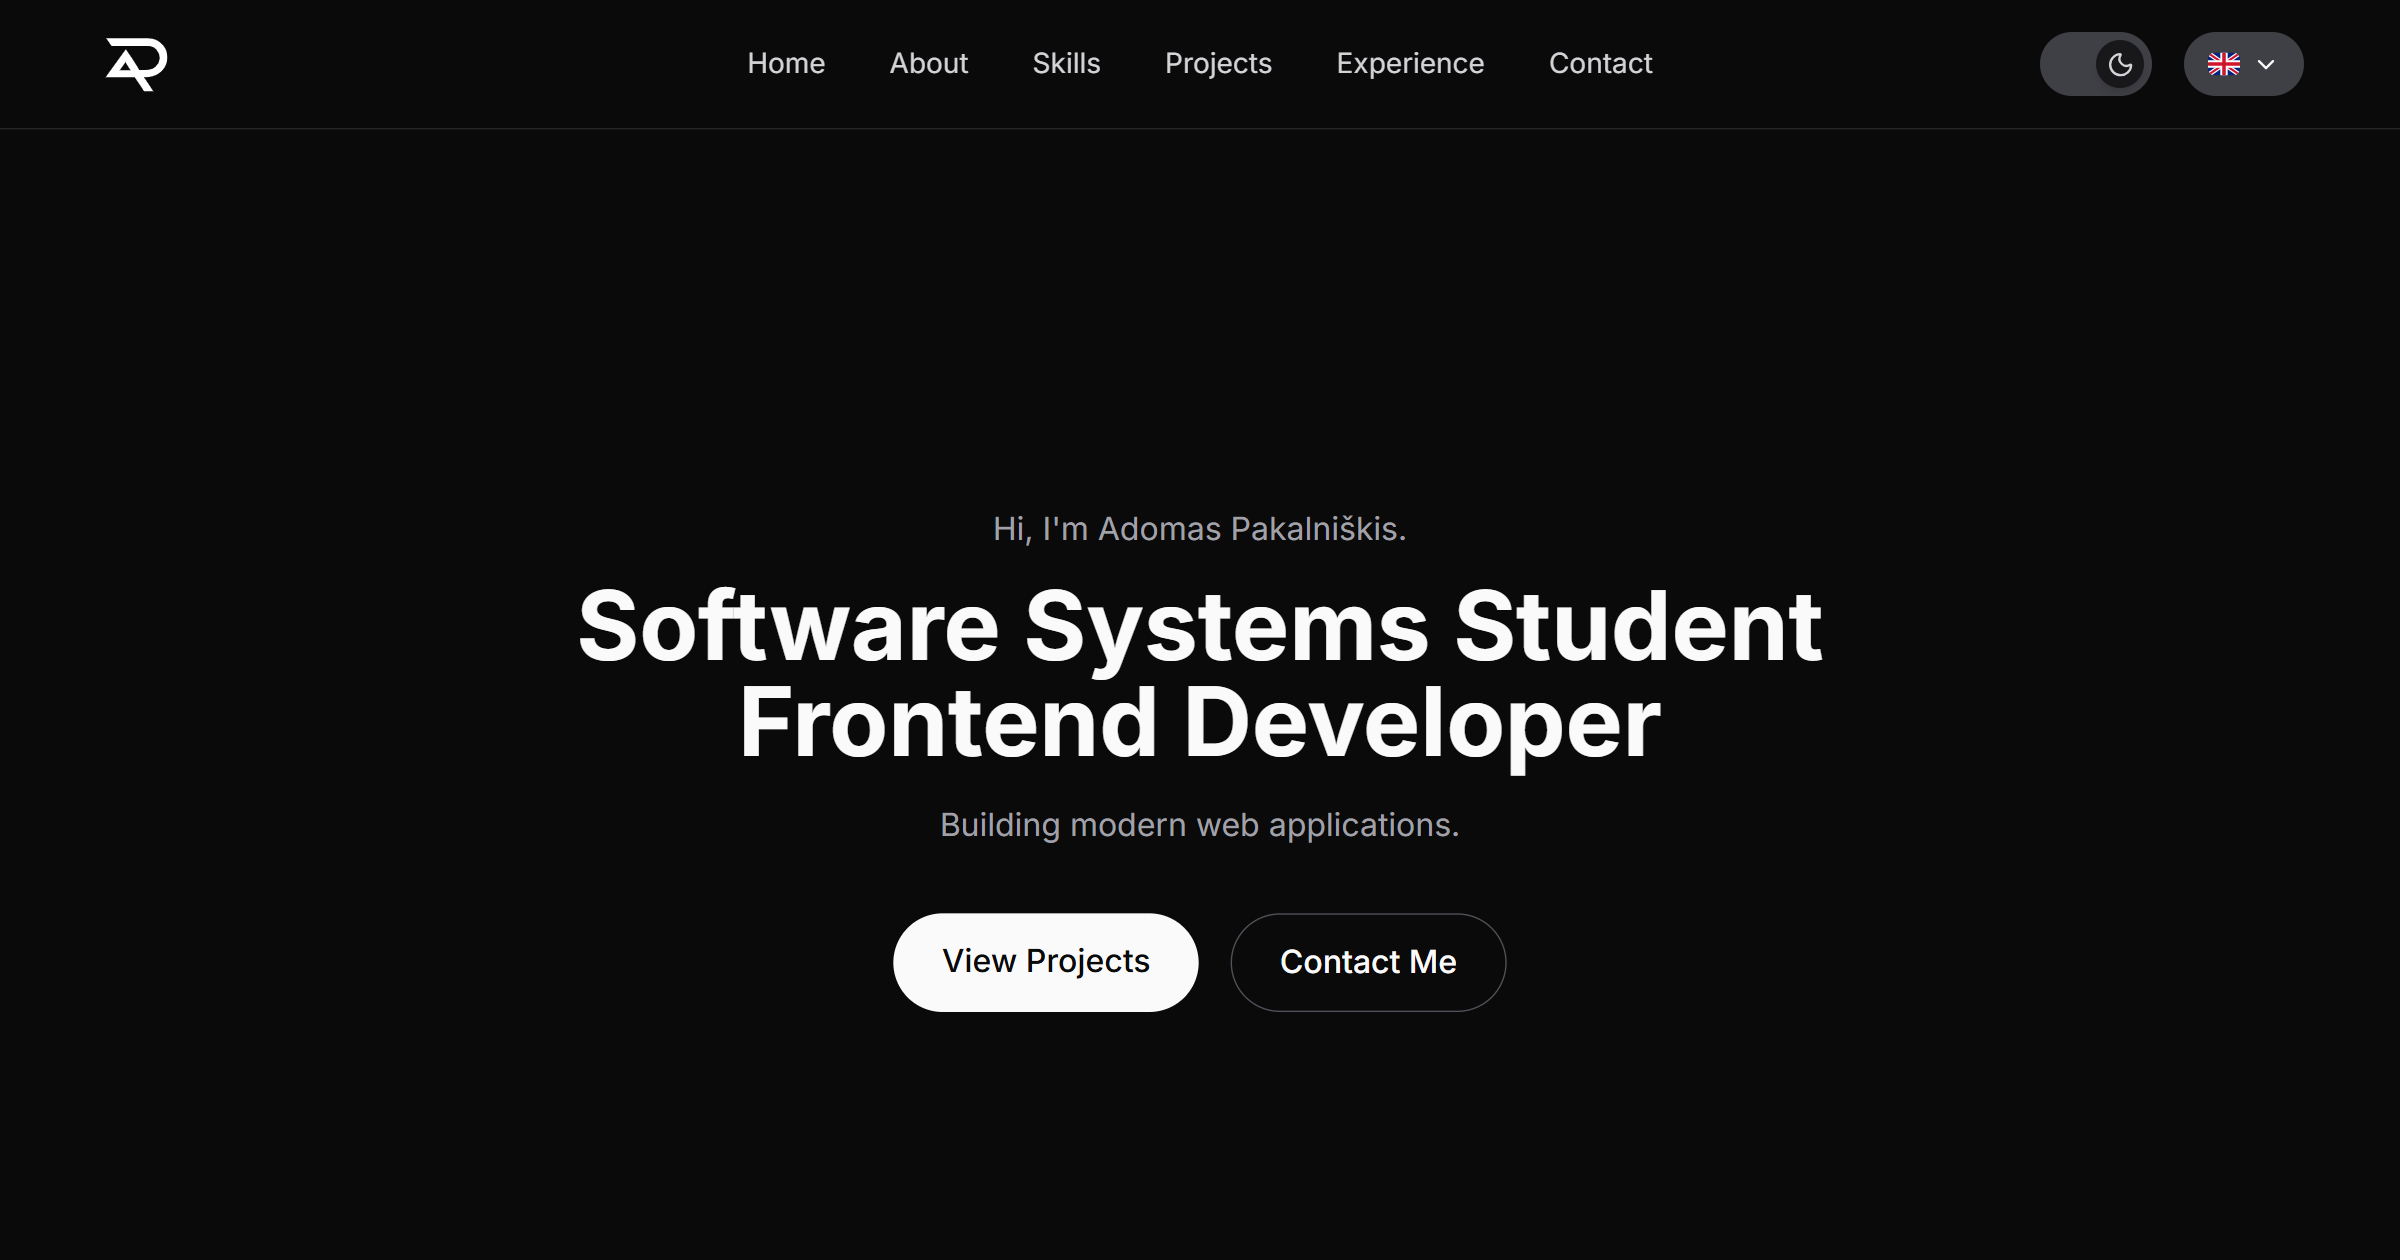
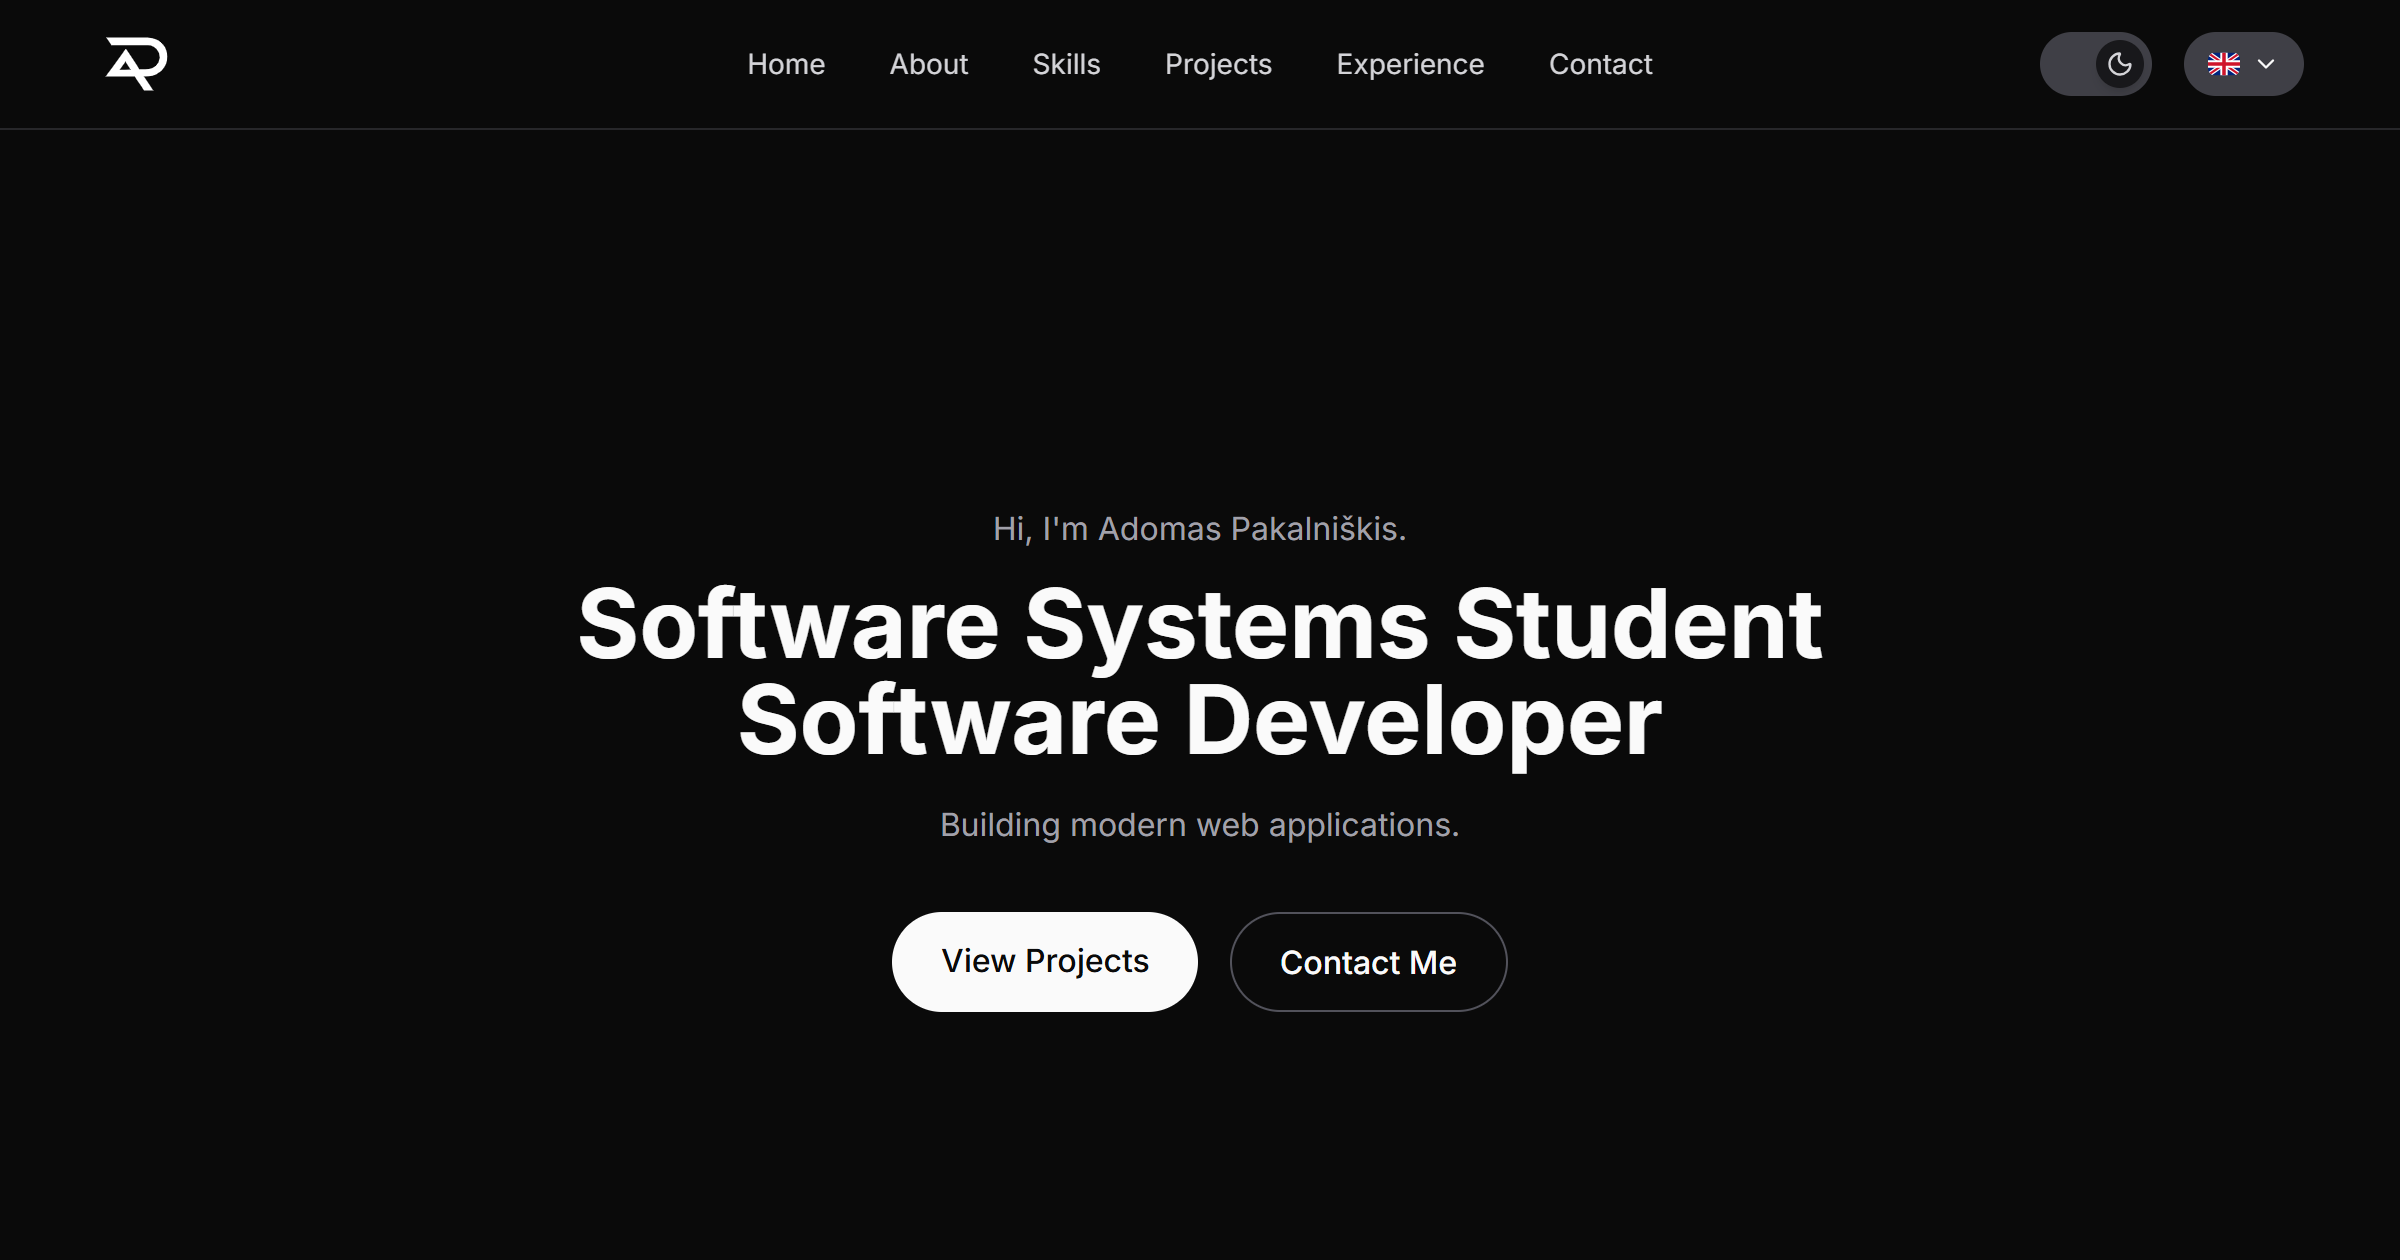
Update skills, About intro, LT hero title, meta description and OG image
- Skills: expand Frontend, Backend and Tools lists (7 / 9 / 7 items)
- About: rewrite paragraph 1 in EN and LT
- Hero (LT): change title line 2 to "Programinės įrangos kūrėjas"
- Meta: update description, og:description and twitter:description
- OG image: regenerate at 2400x1260 with "Software Developer"

diff --git a/src/data/translations.ts b/src/data/translations.ts
@@ -22,7 +22,7 @@ export const translations: Record<'en' | 'lt', Translations> = {
     about: {
       heading: 'About',
       paragraph1:
-        "I'm a Software Systems student focused on building useful, well-designed software. With a foundation in programming, algorithms, databases, and software engineering, I'm currently exploring modern web development through JavaScript, TypeScript, and React — learning by building real projects from scratch.",
+        "I'm a Software Systems student focused on building useful, well-designed software. With a foundation in programming, algorithms, databases, and software engineering, I build web applications across the stack, from the user interface to the database, using React, Next.js, TypeScript, and PostgreSQL — learning by building real projects from scratch.",
       paragraph2:
         "What draws me to programming is the combination of logic and craft — solving a problem is only half the job; building something people can actually use well is the other half. I'm driven by continuous improvement and interested in the intersection of technology, products, and business.",
       cta: 'Currently looking for internship opportunities where I can learn, contribute, and build something meaningful.',
@@ -107,7 +107,7 @@ export const translations: Record<'en' | 'lt', Translations> = {
     hero: {
       greeting: 'Sveiki, aš Adomas Pakalniškis.',
       titleLine1: 'Programų sistemų studentas',
-      titleLine2: 'Programuotojas',
+      titleLine2: 'Programinės įrangos kūrėjas',
       subtitle: 'Kuriu modernias web aplikacijas.',
       viewProjects: 'Mano projektai',
       contactMe: 'Susisiekti',
@@ -115,7 +115,7 @@ export const translations: Record<'en' | 'lt', Translations> = {
     about: {
       heading: 'Apie mane',
       paragraph1:
-        'Esu Programų sistemų studentas, siekiantis kurti naudingą ir gerai apgalvotą programinę įrangą. Turėdamas tvirtus programavimo, algoritmų, duomenų bazių ir programinės įrangos inžinerijos pagrindus, šiuo metu gilinuosi į modernų web programavimą (JavaScript, TypeScript, React) ir mokausi kurdamas realius projektus nuo nulio.',
+        'Esu Programų sistemų studentas, siekiantis kurti naudingą ir gerai apgalvotą programinę įrangą. Turėdamas tvirtus programavimo, algoritmų, duomenų bazių ir programinės įrangos inžinerijos pagrindus, kuriu web aplikacijas nuo vartotojo sąsajos iki duomenų bazės, naudodamas React, Next.js, TypeScript ir PostgreSQL, ir mokausi kurdamas realius projektus nuo nulio.',
       paragraph2:
         'Programavime mane labiausiai žavi logikos ir kūrybos derinys: išspręsti problemą yra tik pusė darbo, o sukurti tai, kuo žmonėms būtų patogu naudotis — kita pusė. Mane motyvuoja nuolatinis tobulėjimas, taip pat domina tai, kaip technologijos ir produktai kuria vertę verslui.',
       cta: 'Šiuo metu ieškau praktikos galimybių, kur galėčiau mokytis, prisidėti prie komandos ir kurti vertę teikiančius sprendimus.',

diff --git a/index.html b/index.html
@@ -8,7 +8,7 @@
     <title>Adomas Pakalniškis — Software Developer</title>
     <meta
       name="description"
-      content="Personal portfolio of Adomas Pakalniškis, a Software Systems student and frontend developer specializing in React and TypeScript."
+      content="Personal portfolio of Adomas Pakalniškis, a Software Systems student and software developer building web applications with React, Next.js, TypeScript and PostgreSQL."
     />
 
     <!-- Open Graph / Facebook / LinkedIn -->
@@ -19,7 +19,7 @@
     />
     <meta
       property="og:description"
-      content="Personal portfolio of Adomas Pakalniškis, a Software Systems student and frontend developer specializing in React and TypeScript."
+      content="Personal portfolio of Adomas Pakalniškis, a Software Systems student and software developer building web applications with React, Next.js, TypeScript and PostgreSQL."
     />
     <meta property="og:url" content="https://adomaspak.com" />
     <meta property="og:image" content="https://adomaspak.com/og-image.png" />
@@ -34,7 +34,7 @@
     />
     <meta
       name="twitter:description"
-      content="Personal portfolio of Adomas Pakalniškis, a Software Systems student and frontend developer specializing in React and TypeScript."
+      content="Personal portfolio of Adomas Pakalniškis, a Software Systems student and software developer building web applications with React, Next.js, TypeScript and PostgreSQL."
     />
     <meta name="twitter:image" content="https://adomaspak.com/og-image.png" />
 

diff --git a/src/data/skills.ts b/src/data/skills.ts
@@ -2,14 +2,40 @@
 export const skillCategories = [
   {
     title: 'Frontend',
-    skills: ['React', 'TypeScript', 'JavaScript', 'HTML', 'CSS', 'Tailwind'],
+    skills: [
+      'React',
+      'Next.js',
+      'TypeScript',
+      'JavaScript',
+      'HTML',
+      'CSS',
+      'Tailwind CSS',
+    ],
   },
   {
     title: 'Backend',
-    skills: ['C#', 'ASP.NET', 'SQL'],
+    skills: [
+      'PostgreSQL',
+      'SQL',
+      'Supabase',
+      'Drizzle ORM',
+      'REST APIs',
+      'C#',
+      'ASP.NET',
+      'Java',
+      'Python',
+    ],
   },
   {
     title: 'Tools',
-    skills: ['Git', 'GitHub', 'VS Code', 'Vite', 'Visual Studio', 'IntelliJ'],
+    skills: [
+      'Git',
+      'GitHub',
+      'Vercel',
+      'VS Code',
+      'Vite',
+      'Visual Studio',
+      'IntelliJ',
+    ],
   },
 ] as const
